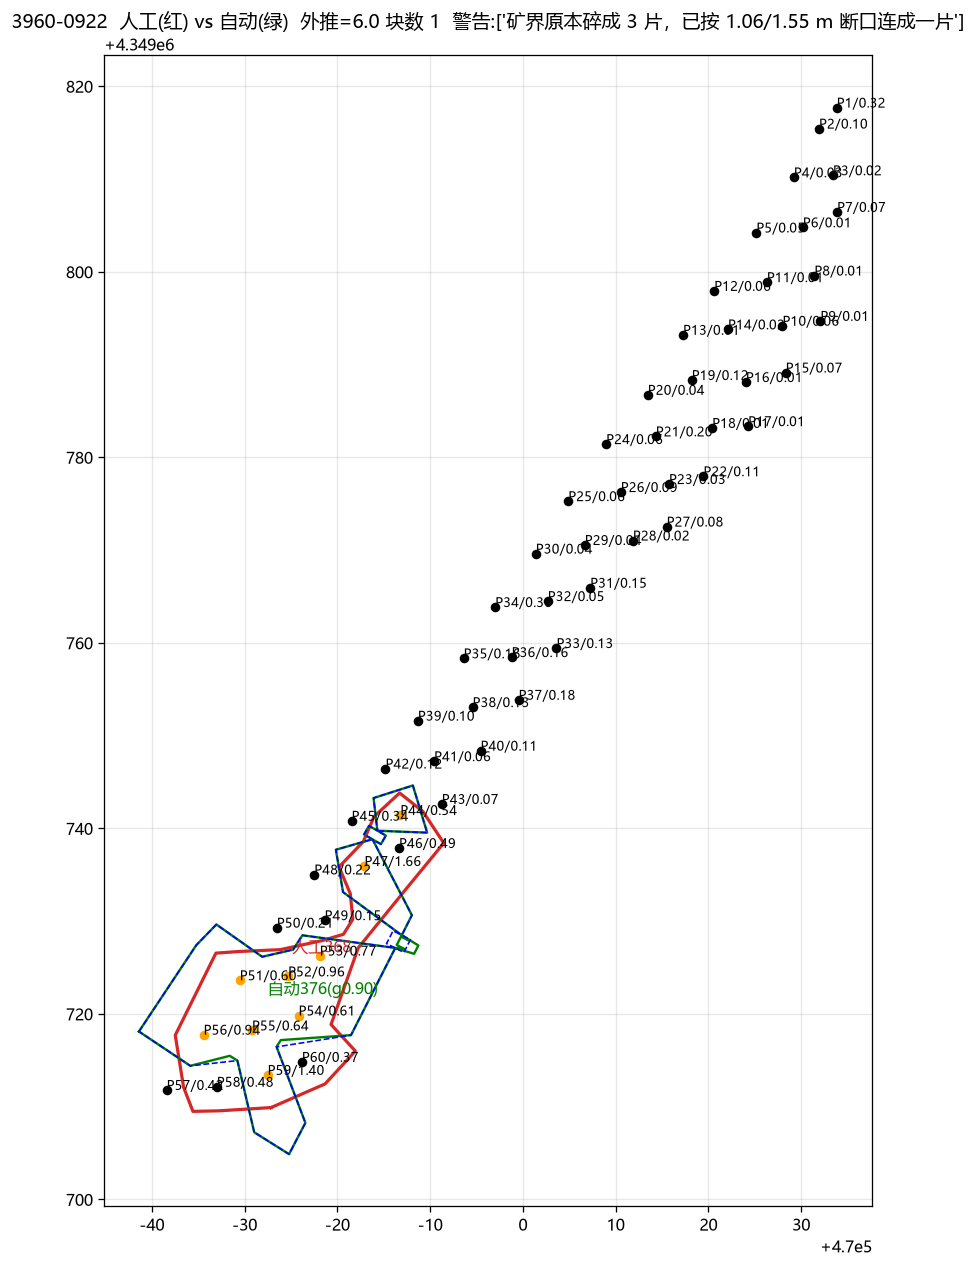
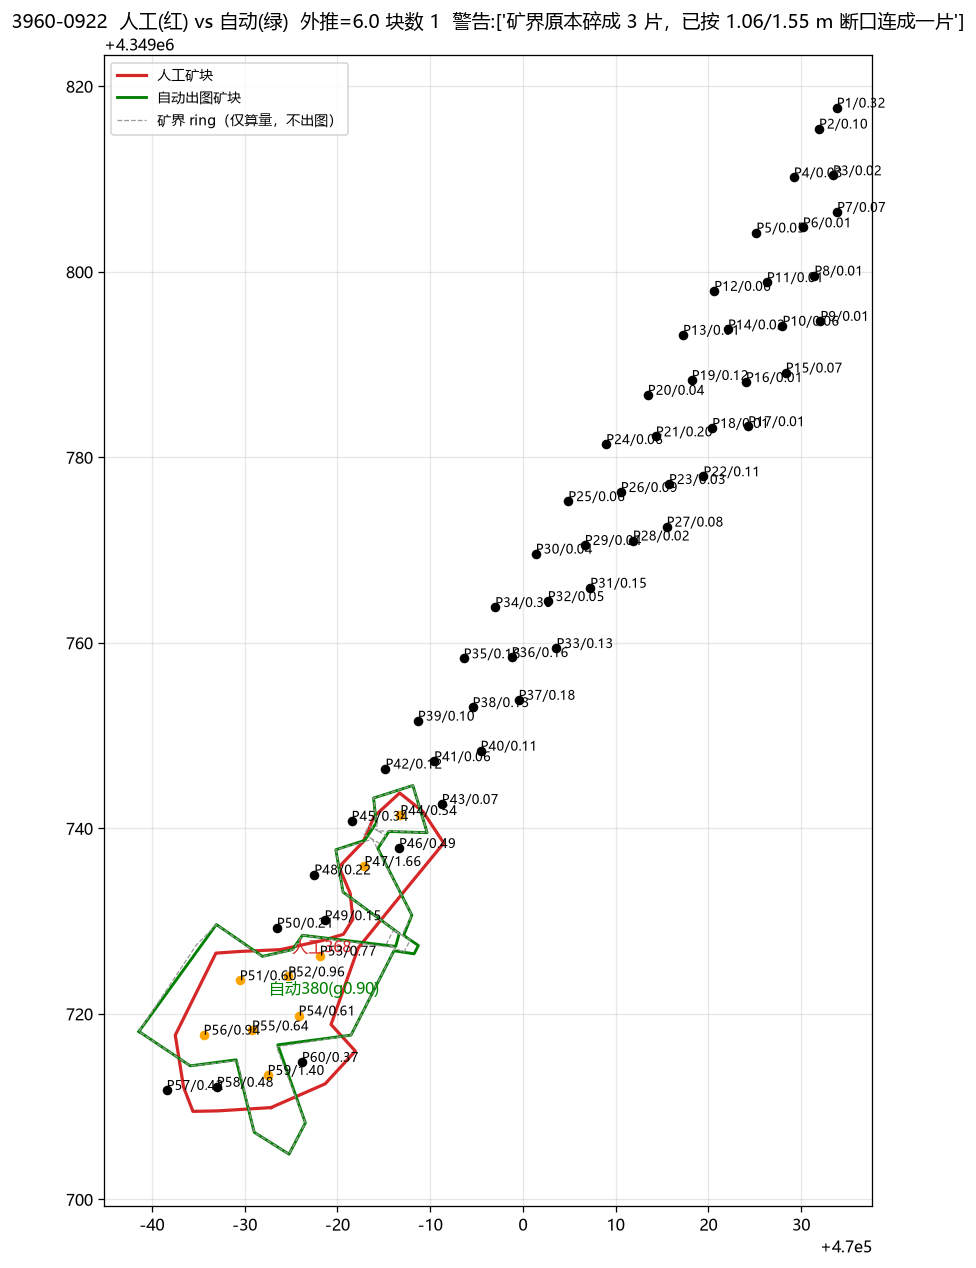
v1.11: smooth block outlines and enforce 4.5m direct composite merge

diff --git a/3DMine二次圈矿工具_初步原型/core/strip.py b/3DMine二次圈矿工具_初步原型/core/strip.py
@@ -482,7 +482,7 @@ def class_clusters(ore, all_holes=None, min_fragment: float = 0.0,
 
 def block_of_cluster(grp, ring, all_holes, density_waste: float = 2.65,
                      density_ore: float = 2.7, extrude: float = EXTRUDE_M,
-                     block_simplify: float = 0.3):
+                     block_simplify: float = 0.3, block_smooth: float = 0.5):
     """clusters 模式用：**一个孔簇 = 一块**（不再簇内二次分组）。
 
     块范围 = 该簇的矿界；块内所有孔的单元（含圈进来的废孔）按用户口径算量：
@@ -519,6 +519,7 @@ def block_of_cluster(grp, ring, all_holes, density_waste: float = 2.65,
     poly = _safe_union([c.polygon for c in cs]).buffer(0)
     poly, _ = connect_ring_parts(poly, extrude)
     poly = simplify_block_outline(poly, hs, block_simplify)
+    poly = smooth_block_outline(poly, hs, block_smooth, 0.5)
     b.polygon = poly
     return b
 
@@ -639,6 +640,33 @@ def simplify_block_outline(poly, holes, tol: float = 0.3):
     if sp.is_empty or sp.geom_type not in ("Polygon", "MultiPolygon"):
         return poly
     if abs(sp.area - poly.area) > 0.02 * max(poly.area, 1e-9):
+        return poly
+    probe = sp.buffer(1e-6)
+    if any(not probe.contains(Point(h.x, h.y)) for h in holes):
+        return poly
+    return sp
+
+
+def smooth_block_outline(poly, holes, radius: float = 0.5,
+                         simplify: float = 0.5):
+    """圆滑矿块轮廓：轻量 buffer 外扩/内收去掉尖角，再抽稀。
+
+    只用在小半径（默认 0.3 m），避免把 1.2 m 宽的连接颈收断；
+    结果必须是单体 Polygon、面积变化 ≤2%、矿孔仍在内，否则保留原轮廓。
+    """
+    if poly is None or poly.is_empty or poly.geom_type != "Polygon":
+        return poly
+    if radius is None or float(radius) <= 0:
+        return poly
+    try:
+        sp = poly.buffer(float(radius), join_style="round").buffer(
+            -float(radius), join_style="round")
+        sp = sp.simplify(float(simplify), preserve_topology=True)
+    except Exception:
+        return poly
+    if sp.is_empty or sp.geom_type != "Polygon":
+        return poly
+    if abs(sp.area - poly.area) > 0.03 * max(poly.area, 1e-9):
         return poly
     probe = sp.buffer(1e-6)
     if any(not probe.contains(Point(h.x, h.y)) for h in holes):
@@ -1221,7 +1249,7 @@ def average_blocks(ore, outline, density: float,
                    merge_target: str = "avg", merge_gap: float = 0.0,
                    same_block=None, all_holes=None,
                    density_waste: float = 2.65, density_ore: float = 2.7,
-                   block_simplify: float = 0.3):
+                   block_simplify: float = 0.3, block_smooth: float = 0.5):
     """分块定档（人工口径）：
 
       ① 每个矿孔一个 Voronoi 单元，裁剪到矿界；
@@ -1371,6 +1399,7 @@ def average_blocks(ore, outline, density: float,
             b.metal_hg = ton * grade / 100.0
             b.acct_holes = [c.hole for c in cs]
         b.polygon = simplify_block_outline(b.polygon, pts, block_simplify)
+        b.polygon = smooth_block_outline(b.polygon, pts, block_smooth, 0.5)
         out.append(b)
     order = {"L4": 0, "L3": 1, "L2": 2, "L1": 3}
     out.sort(key=lambda b: (order.get(b.level_id, 9), -b.volume_m3))

diff --git a/3DMine二次圈矿工具_初步原型/_probe/review_composite_usage.py b/3DMine二次圈矿工具_初步原型/_probe/review_composite_usage.py
@@ -1,0 +1,80 @@
+# -*- coding: utf-8 -*-
+"""审图：自动矿块 + 综合图历史块（灰）+ 实际并入的那一块（橙）。
+
+用法: python _probe\review_composite_usage.py <平台> <日期>
+"""
+from __future__ import annotations
+
+import sys
+from pathlib import Path
+
+import matplotlib
+matplotlib.use("Agg")
+import matplotlib.pyplot as plt
+
+ROOT = Path(__file__).resolve().parent.parent
+sys.path.insert(0, str(ROOT / "core"))
+sys.path.insert(0, str(ROOT / "_probe"))
+
+import baseline as _bl                                   # noqa: E402
+import params as _params                                 # noqa: E402
+from composite import load_composite_blocks, merge_outline  # noqa: E402
+from oreblocks import load_holes_xls                     # noqa: E402
+from pipeline import run_blast                           # noqa: E402
+from strip import LAST_RING                              # noqa: E402
+
+matplotlib.rcParams["font.sans-serif"] = ["Microsoft YaHei", "SimHei"]
+matplotlib.rcParams["axes.unicode_minus"] = False
+
+
+def main():
+    plat = sys.argv[1] if len(sys.argv) > 1 else "3940"
+    date = sys.argv[2] if len(sys.argv) > 2 else "1008"
+    pdir = ROOT.parent / ("北部山头%s平台2026" % plat)
+    folder = _bl.blast_dir(plat, date)
+    holes = load_holes_xls(sorted(folder.glob("1、*.xls"))[0])
+    allh = list(holes.values())
+    comp = load_composite_blocks(sorted(pdir.glob("*综合*.dwg"))[0])
+    P = dict(_params.for_blast(date, platform=plat))
+    res = run_blast(holes, allh, P, comp, blast=date)
+    mb = LAST_RING.get("merged_block")
+    cands = [c for c in comp if mb is not None and c[2] is mb] or None
+    gap = float(P.get("merge_gap_m", 4.5))
+
+    fig, ax = plt.subplots(figsize=(12, 12), dpi=130)
+    for lay, _col, p in comp:
+        x, y = p.exterior.xy
+        ax.plot(x, y, color="#a0a0a0", lw=0.7, alpha=0.8)
+    if mb is not None:
+        x, y = mb.exterior.xy
+        ax.fill(x, y, color="#ffb347", alpha=0.25)
+        ax.plot(x, y, color="#e67e00", lw=2.2, label="实际并入综合图的历史块 %.1f m²" % mb.area)
+
+    for b in res["blocks"]:
+        mo, n = merge_outline(b.polygon, cands, gap)
+        if mo is None:
+            continue
+        for g in ([mo] if mo.geom_type == "Polygon" else list(mo.geoms)):
+            x, y = g.exterior.xy
+            ax.plot(x, y, color="#008000", lw=2.0)
+        c = mo.representative_point()
+        ax.annotate("%d号 出图轮廓 %.0f m²（并 %d 块）" % (b.no, mo.area, n),
+                    (c.x, c.y), color="#006000", fontsize=9)
+
+    for h in allh:
+        ax.plot(h.x, h.y, "o", color=("#d62728" if h.grade >= 0.5 else "#333333"), ms=4)
+        ax.annotate(h.short.split("-")[-1], (h.x, h.y), fontsize=7)
+
+    ax.set_aspect("equal")
+    ax.grid(alpha=0.25)
+    ax.set_title("%s-%s 自动圈矿 + 综合图参考（灰=综合图，橙=实际并入，绿=出图轮廓）"
+                 % (plat, date))
+    ax.legend(loc="best")
+    out = ROOT / "sample_data" / "output" / ("审图_综合图参考_%s-%s.png" % (plat, date))
+    fig.savefig(out, bbox_inches="tight")
+    print("->", out)
+    print("并入历史块：", "无" if mb is None else "%.2f m²" % mb.area)
+
+
+if __name__ == "__main__":
+    main()

diff --git a/3DMine二次圈矿工具_初步原型/_probe/test_composite_merge.py b/3DMine二次圈矿工具_初步原型/_probe/test_composite_merge.py
@@ -1,0 +1,65 @@
+# -*- coding: utf-8 -*-
+"""自检：出图时确实参考综合图，但只并"与当日矿块直接相接"的那一块。"""
+from __future__ import annotations
+
+import sys
+from pathlib import Path
+
+ROOT = Path(__file__).resolve().parent.parent
+sys.path.insert(0, str(ROOT / "core"))
+sys.path.insert(0, str(ROOT / "_probe"))
+
+import baseline as _bl                                   # noqa: E402
+import params as _params                                 # noqa: E402
+from composite import load_composite_blocks, merge_outline  # noqa: E402
+from oreblocks import load_holes_xls                     # noqa: E402
+from pipeline import run_blast                           # noqa: E402
+from strip import LAST_RING                              # noqa: E402
+
+checks = []
+
+
+def check(ok, msg):
+    print(("  ✓ " if ok else "  ✗ ") + msg)
+    checks.append(bool(ok))
+
+
+def run_case(plat, date):
+    pdir = ROOT.parent / ("北部山头%s平台2026" % plat)
+    folder = _bl.blast_dir(plat, date)
+    holes = load_holes_xls(sorted(folder.glob("1、*.xls"))[0])
+    comp = load_composite_blocks(sorted(pdir.glob("*综合*.dwg"))[0])
+    P = dict(_params.for_blast(date, platform=plat))
+    res = run_blast(holes, list(holes.values()), P, comp, blast=date)
+    return res, comp, P
+
+
+def main():
+    for plat, date in (("3940", "0915"), ("3940", "1003"), ("3940", "1004"),
+                       ("3940", "1008")):
+        print("== %s-%s" % (plat, date))
+        res, comp, P = run_case(plat, date)
+        gap = float(P.get("merge_gap_m", 4.5))
+        check(abs(gap - 4.5) < 1e-9, "接综合图间距 = 4.5 m")
+        mb = LAST_RING.get("merged_block")
+        check(mb is not None, "矿界阶段确实读取并贴合了综合图")
+        cands = [c for c in comp if mb is not None and c[2] is mb] or None
+        counts = [merge_outline(b.polygon, cands, gap)[1] for b in res["blocks"]]
+        check(max(counts or [0]) <= 1,
+              "每个当日矿块最多并 1 个历史块（实际 %s）" % counts)
+        if date == "1008":
+            check(abs(mb.area - 82.254) < 1.0,
+                  "1008 并入的是 82 m² 那块（实际 %.2f）" % mb.area)
+            far = min((b.polygon.distance(p) for b in res["blocks"]
+                       for lay, _c, p in comp if abs(p.area - 725.2) < 1.0),
+                      default=999)
+            check(far > 4.0, "725 m² 大块没有并入（最近 %.2f m）" % far)
+    failed = checks.count(False)
+    print("\n%d/%d 通过" % (len(checks) - failed, len(checks)))
+    print("结论：" + ("全部通过 ✓" if not failed else "有 %d 项没通过" % failed))
+    return 0 if not failed else 1
+
+
+if __name__ == "__main__":
+    sys.exit(main())
+

diff --git a/3DMine二次圈矿工具_初步原型/_probe/_review_one.py b/3DMine二次圈矿工具_初步原型/_probe/_review_one.py
@@ -28,20 +28,23 @@ for p in j["polylines"]:
     poly=Polygon(p["pts"]).buffer(0)
     if _bl.is_block(poly,p["layer"],allh): mb.append((p["layer"],poly))
 fig,ax=plt.subplots(figsize=(15,13))
+lab_man = lab_auto = lab_ring = True
 for lay,poly in mb:
-    x,y=poly.exterior.xy; ax.plot(x,y,color="#d62728",lw=2.0)
+    x,y=poly.exterior.xy; ax.plot(x,y,color="#d62728",lw=2.0,label="人工矿块" if lab_man else None); lab_man=False
     c=poly.representative_point(); ax.annotate("人工%.0f"%poly.area,(c.x,c.y),color="#d62728",fontsize=10)
 for b in res["blocks"]:
     for g in ([b.polygon] if b.polygon.geom_type=="Polygon" else list(b.polygon.geoms)):
-        x,y=g.exterior.xy; ax.plot(x,y,color="green",lw=1.5)
+        x,y=g.exterior.xy; ax.plot(x,y,color="green",lw=1.8,label="自动出图矿块" if lab_auto else None); lab_auto=False
         c=g.representative_point(); ax.annotate("自动%.0f(g%.2f)"%(b.polygon.area,b.grade),(c.x,c.y),color="green",fontsize=10)
 for rr in res["rings"]:
     for g in ([rr] if rr.geom_type=="Polygon" else list(rr.geoms)):
-        x,y=g.exterior.xy; ax.plot(x,y,color="blue",lw=1.0,ls="--")
+        x,y=g.exterior.xy; ax.plot(x,y,color="#999999",lw=0.8,ls="--",
+                                  label="矿界 ring（仅算量，不出图）" if lab_ring else None); lab_ring=False
 for h in allh:
     ax.plot(h.x,h.y,"o",color=("orange" if h.grade>=0.5 else "black"),ms=5)
     ax.annotate(h.short.split("-")[-1]+"/%.2f"%h.grade,(h.x,h.y),fontsize=8)
 ax.set_aspect("equal"); ax.grid(alpha=.3)
+ax.legend(loc="best", fontsize=9)
 ax.set_title("%s-%s  人工(红) vs 自动(绿)  外推=%.1f 块数 %d  警告:%s" % (plat,date,P["extrude_m"],len(res["blocks"]),res["warn"]))
 out=ROOT/"sample_data"/"output"/("审图_%s-%s.png" % (plat,date))
 fig.savefig(out,dpi=115,bbox_inches="tight"); print("->",out)

diff --git a/3DMine二次圈矿工具_初步原型/core/composite.py b/3DMine二次圈矿工具_初步原型/core/composite.py
@@ -153,26 +153,23 @@ def merge_outline(block_poly: Polygon, comp_blocks, max_gap: float = 4.5):
     """当日矿块与综合图历史矿块：间距 ≤ max_gap 的并成一块。返回 (合并后多边形, 并入的历史块数)。"""
     if block_poly is None:
         return None, 0
+    # 只并"与当日矿块直接相接/间距≤gap"的历史块，**不沿历史块链式传播**。
+    # 旧做法会从 1 块开始一路吞并综合图里的 9 块（0915 实测），
+    # 把成品图拉成一大片——用户 2026-10-21："图形太过撕裂"。
     group = [block_poly]
     n = 0
-    changed = True
-    while changed:
-        changed = False
-        cur = unary_union(group)
-        for item in comp_blocks:
-            p = item[2]
-            if any(p is g for g in group):
-                continue
-            if cur.distance(p) <= max_gap:
-                group.append(p)
-                n += 1
-                changed = True
+    for item in comp_blocks:
+        p = item[2]
+        if block_poly.distance(p) <= max_gap:
+            group.append(p)
+            n += 1
     merged = unary_union(group)
     # 合并后把"断口"补上：先外扩 gap/2 再收回来，使几块连成一条闭合轮廓
     if merged.geom_type == "MultiPolygon":
         d = max_gap / 2.0 + 0.1
-        closed = merged.buffer(d, join_style="mitre").buffer(
-            -d, join_style="mitre")
+        # 圆角闭合：综合图历史块的接缝不要生成尖刺（用户 2026-10-21：线条要流畅）
+        closed = merged.buffer(d, join_style="round").buffer(
+            -d, join_style="round")
         if not closed.is_empty:
             merged = closed
     return merged, n

diff --git a/3DMine二次圈矿工具_初步原型/core/pipeline.py b/3DMine二次圈矿工具_初步原型/core/pipeline.py
@@ -113,7 +113,9 @@ def run_blast(holes, allh, P: dict, comp_blocks=None, blast: str = ""):
                 b1 = block_of_cluster(grp, ring, allh,
                                       density_waste=P.get("density_waste", 2.65),
                                       density_ore=P.get("density_ore", 2.7),
-                                      extrude=P["extrude_m"])
+                                      extrude=P["extrude_m"],
+                                      block_simplify=P.get("block_simplify_m", 0.3),
+                                      block_smooth=P.get("block_smooth_m", 0.3))
                 if b1 is not None:
                     blocks.append(b1)
         order = {"L4": 0, "L3": 1, "L2": 2, "L1": 3}
@@ -156,7 +158,8 @@ def run_blast(holes, allh, P: dict, comp_blocks=None, blast: str = ""):
                                  all_holes=allh,
                                  density_waste=P.get("density_waste", 2.65),
                                  density_ore=P.get("density_ore", 2.7),
-                                 block_simplify=P.get("block_simplify_m", 0.3))
+                                 block_simplify=P.get("block_simplify_m", 0.3),
+                                 block_smooth=P.get("block_smooth_m", 0.3))
     order = {"L4": 0, "L3": 1, "L2": 2, "L1": 3}
     blocks.sort(key=lambda b: (order.get(b.level_id, 9), -b.volume_m3))
     for i, b in enumerate(blocks, 1):

diff --git a/3DMine二次圈矿工具_初步原型/core/run_strip.py b/3DMine二次圈矿工具_初步原型/core/run_strip.py
@@ -204,6 +204,7 @@ def main() -> None:
                   report_png=png_used, report_px=(pw, ph),
                   pending=[("L1", g) for g in pending], composite_blocks=comp,
                   merge_candidates=cands,
+                  merge_gap=float(P.get("merge_gap_m", 4.5)),
                   # 用了人工画的 .3ds（人工圈矿 / 精确模式）：**不并综合图、不画综合图参照线**——
                   # 成果图必须严格就是我画的那几条线（用户 2026-10-15）
                   check_merge=not (P.get("manual_blocks") or P.get("outline_files")))
@@ -211,7 +212,8 @@ def main() -> None:
         _keep_comp = None if (P.get("manual_blocks") or P.get("outline_files")) else comp
         _keep_cands = None if (P.get("manual_blocks") or P.get("outline_files")) else cands
         write_3ds(blocks, meta, tds,
-                  composite_blocks=_keep_comp, merge_candidates=_keep_cands)
+                  composite_blocks=_keep_comp, merge_candidates=_keep_cands,
+                  merge_gap=float(P.get("merge_gap_m", 4.5)))
         made.append(tds)
     except PermissionError as exc:
         note("[错误] 有成果文件正被占用（多半是 Excel/CAD 开着同名文件）：%s" % exc)

diff --git a/3DMine二次圈矿工具_初步原型/core/params.py b/3DMine二次圈矿工具_初步原型/core/params.py
@@ -18,10 +18,11 @@ DEFAULTS = {
     "extrude_m": 3.0,          # 外围矿界向外推的距离(m)
     "zone_link_m": 15.0,       # 孤立孔连接半径(m)：≤这个距离才算同一条矿化带
     "min_fragment_m2": 40.0,   # 最小块段(m²)：比它小的同档碎片并入邻块
-    "merge_gap_m": 8.0,        # 南端接综合图历史块的最大间距(m)
+    "merge_gap_m": 4.5,        # 接综合图历史块的最大间距(m)：用户 2026-10-14 定 4.5
     "grid_res_m": 1.0,         # 方格网边长(m)
     "simplify_m": 0.8,         # 矿界抽稀容差(m)
     "block_simplify_m": 0.3,   # 矿块轮廓抽稀容差(m)：去 Voronoi 锯齿，面积变化≤2%
+    "block_smooth_m": 0.5,     # 矿块轮廓圆滑半径(m)：buffer 外扩/内收，避免断颈
     "ring_alpha_k": 0.0,       # >0 时把"矿孔外轮廓+外推"并进矿界（宽/弯矿带兜底）
     # 分块模式：chain = 整条矿化带一条外围矿界，界内再按品位分块（3940 用）；
     #           clusters = 每个"同档+相邻"孔簇各取领地当矿界，簇间留空白（3960 用）。

diff --git a/3DMine二次圈矿工具_初步原型/core/deliver.py b/3DMine二次圈矿工具_初步原型/core/deliver.py
@@ -505,7 +505,7 @@ def _draw_report_table(msp, x0, y_top, rows, stat_rows, title):
 
 def write_dxf(blocks, holes_all, cells, meta, path: Path,
               report_png: Path = None, report_px=None,
-              pending=None, composite_blocks=None, merge_gap: float = 8.0,
+              pending=None, composite_blocks=None, merge_gap: float = 4.5,
               check_merge: bool = True, merge_candidates=None,
               draw_composite: bool = False) -> None:
     from ezdxf import new
@@ -778,7 +778,7 @@ def _nearest_on_boundary(poly: Polygon, tx: float, ty: float):
 
 # ---------------------------------------------------------------- 3ds
 def write_3ds(blocks, meta, path: Path,
-              composite_blocks=None, merge_gap: float = 8.0,
+              composite_blocks=None, merge_gap: float = 4.5,
               merge_candidates=None) -> None:
     """照 3DMine 选择集格式：每个矿块一条字符串，表头末字段为品位类型名。"""
     lines = ["%s, 3DMine String File" % path, "file_version=3DMine_2009"]

diff --git a/3DMine二次圈矿工具_初步原型/_probe/accept_all.py b/3DMine二次圈矿工具_初步原型/_probe/accept_all.py
@@ -174,6 +174,18 @@ if shape.exists():
     emit(out.splitlines()[-1] if out else "(没有输出)")
     results.append(("⑦ 自动矿块形状（连通/抽稀）", p.returncode == 0, p.returncode))
 
+# ⑧ 综合图参考：只并直接相接的历史块
+comp_test = PROBE / "test_composite_merge.py"
+if comp_test.exists():
+    p = subprocess.run([sys.executable, "-X", "utf8", str(comp_test)],
+                       capture_output=True, text=True,
+                       encoding="utf-8", errors="replace")
+    out = ((p.stdout or "") + (p.stderr or "")).rstrip()
+    emit("")
+    emit("== ⑧ 综合图参考自检（直接相接 / 不链式吞并）")
+    emit(out.splitlines()[-1] if out else "(没有输出)")
+    results.append(("⑧ 综合图参考（直接相接）", p.returncode == 0, p.returncode))
+
 emit("")
 emit("=" * 78)
 emit("== 汇总")

diff --git a/3DMine二次圈矿工具_初步原型/_probe/publish_release.py b/3DMine二次圈矿工具_初步原型/_probe/publish_release.py
@@ -79,7 +79,8 @@ def main() -> int:
              "v1.7.1": "v1.7.1 —— 报告表改 Excel 默认风格：细边框、全部居中、行高压缩",
              "v1.7.2": "v1.7.2 —— .bak 统一收进同目录的 bak/ 子文件夹",
              "v1.9": "v1.9 —— 坐标 TXT + 品位表一键生成 3DMine 炮孔数据库",
-             "v1.10": "v1.10 —— 自动圈矿断块连通 + 轮廓抽稀"}.get(
+             "v1.10": "v1.10 —— 自动圈矿断块连通 + 轮廓抽稀",
+             "v1.11": "v1.11 —— 矿块线条圆滑 + 综合图 4.5m 直接相接"}.get(
                  TAG, "%s —— 二次圈矿工具" % TAG)
     st, res = api("https://api.github.com/repos/%s/releases" % REPO, tok,
                   {"tag_name": TAG, "name": title,

diff --git a/3DMine二次圈矿工具_初步原型/client/gui.py b/3DMine二次圈矿工具_初步原型/client/gui.py
@@ -43,7 +43,7 @@ PROBE = ROOT / "_probe"
 PARAMS_REPORT = PROBE / "params_report.py"
 ACCEPT_ALL = PROBE / "accept_all.py"
 ACCEPT_REPORT = ROOT / "验收报告.md"
-VERSION = "v1.10"           # 界面上会显示——以后一眼就能看出跑的是哪版代码
+VERSION = "v1.11"           # 界面上会显示——以后一眼就能看出跑的是哪版代码
 EXCEL_TOOLS = ROOT / "excel_tools"          # 整合进来的"炮孔数据工具"（报告汇总 + 单日并入总表）
 EXCEL_MAIN = EXCEL_TOOLS / "main.py"
 PY = sys.executable
